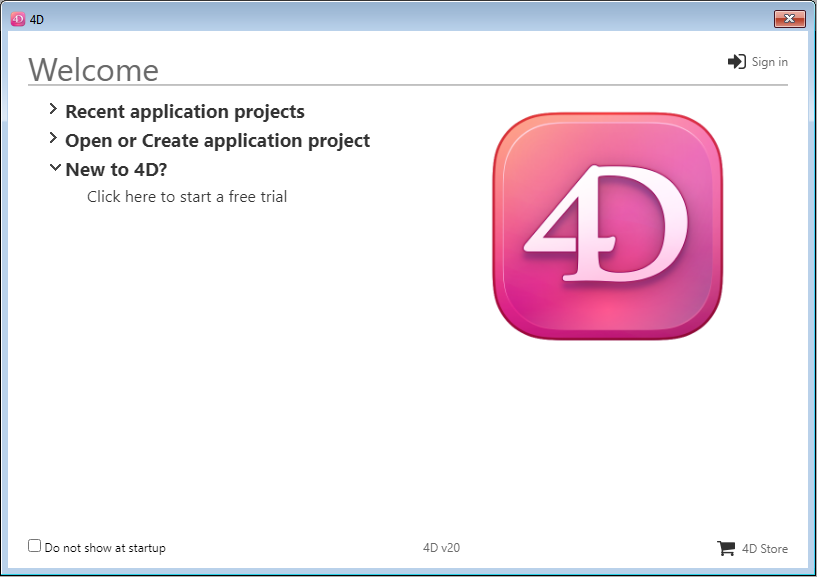
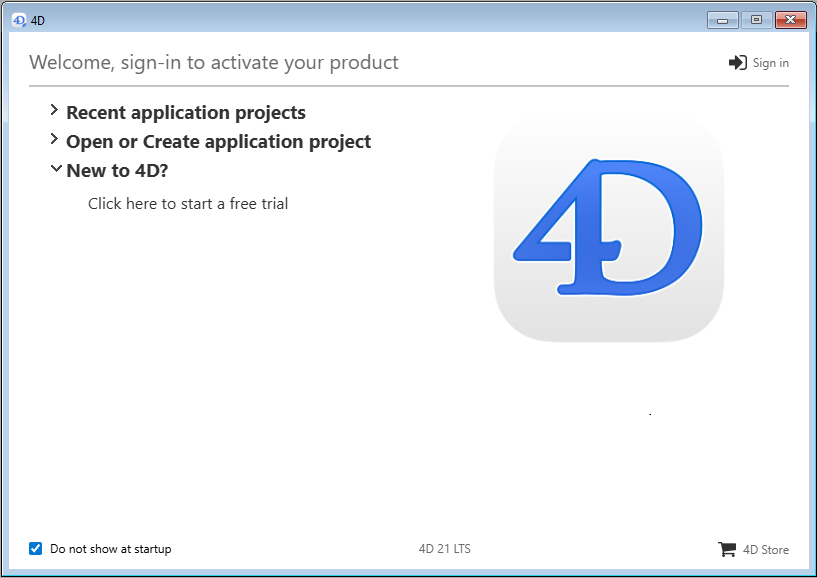
Feature/sign license (#2945)
* final

* after closure

* Update welcome2.png

diff --git a/docs/Notes/updates.md b/docs/Notes/updates.md
@@ -13,6 +13,7 @@ Read [**What’s new in 4D 21**](https://blog.4d.com/en-whats-new-in-4d-21/), th
 - Support of TLS encryption for the [4D.TCPConnection](../API/TCPConnectionClass.md#4dtcpconnectionnew) class.
 - New option allowing to use certificates from Windows Certificate Store instead of a local certificates folder in [`HTTPRequest`](../API/HTTPRequestClass.md#4dhttprequestnew) and [`HTTPAgent`](../API/HTTPAgentClass.md#4dhttpagentnew) classes. 
 - You can now [create components directly from the host project](../Extensions/develop-components.md#creating-components) and [edit their code from a dedicated tab](../Extensions/develop-components.md#editing-all-component-code) in the 4D Explorer without leaving or restarting the project.
+- The 4D product activation step has been simplified and automated during [sign-in](../GettingStarted/Installation.md#sign-in). 
 - 4D Language:
 	- New "trim" commands to remove leading and trailing spaces from a string: [`Trim`](../commands/trim.md), [`Trim start`](../commands/trim-start.md), and [`Trim end`](../commands/trim-end.md).  
 	- [`Num`](../commands/num.md) and [`String`](../commands/string.md) commands have been updated to support conversions in different bases (radix).

diff --git a/docs/GettingStarted/Installation.md b/docs/GettingStarted/Installation.md
@@ -34,7 +34,9 @@ The Welcome Wizard then appears:
 
 - If you want to discover and explore 4D, click on the **free trial** link. You will only be asked to sign in or to create a 4D account.
 
-- If you already have a 4D account, click on the **Sign in** link in the upper right side of the Welcome Wizard dialog and enter your account information. Any already registered 4D licenses are automatically updated (or additional expansion packs loaded) on your machine.
+- If you already have a 4D account, click on the **Sign in** link in the upper right side of the Welcome Wizard dialog and enter your account information. 
+    - Any already registered 4D licenses are automatically updated (or additional expansion packs loaded) on your machine. 
+    - If no development license is registered on the machine but there is one associated with the 4D account, a dialog box appears, prompting you to install it directly.
 
 Expand the **Open or create project application** area and select the action you want to perform:
 
